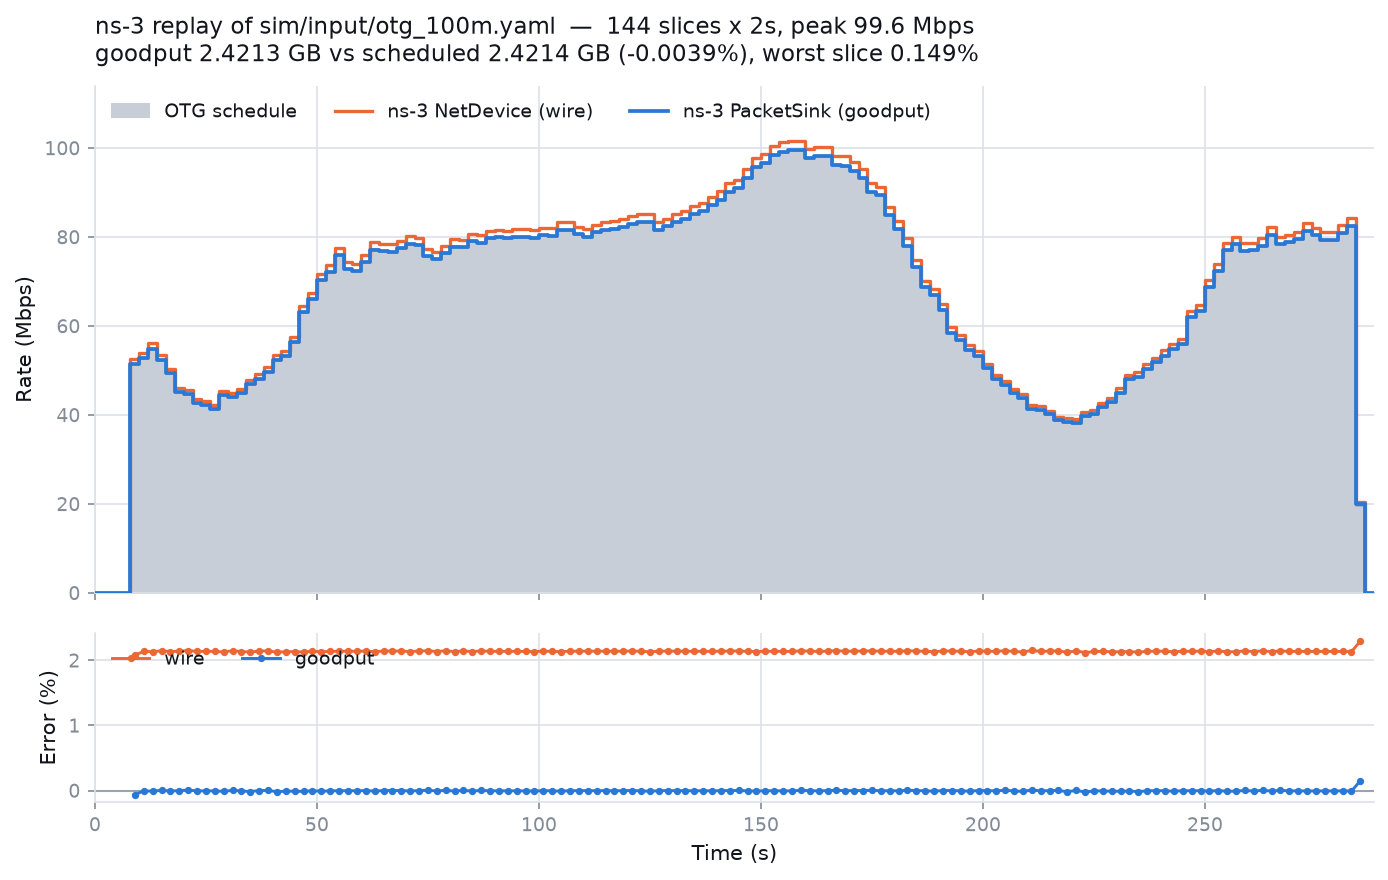
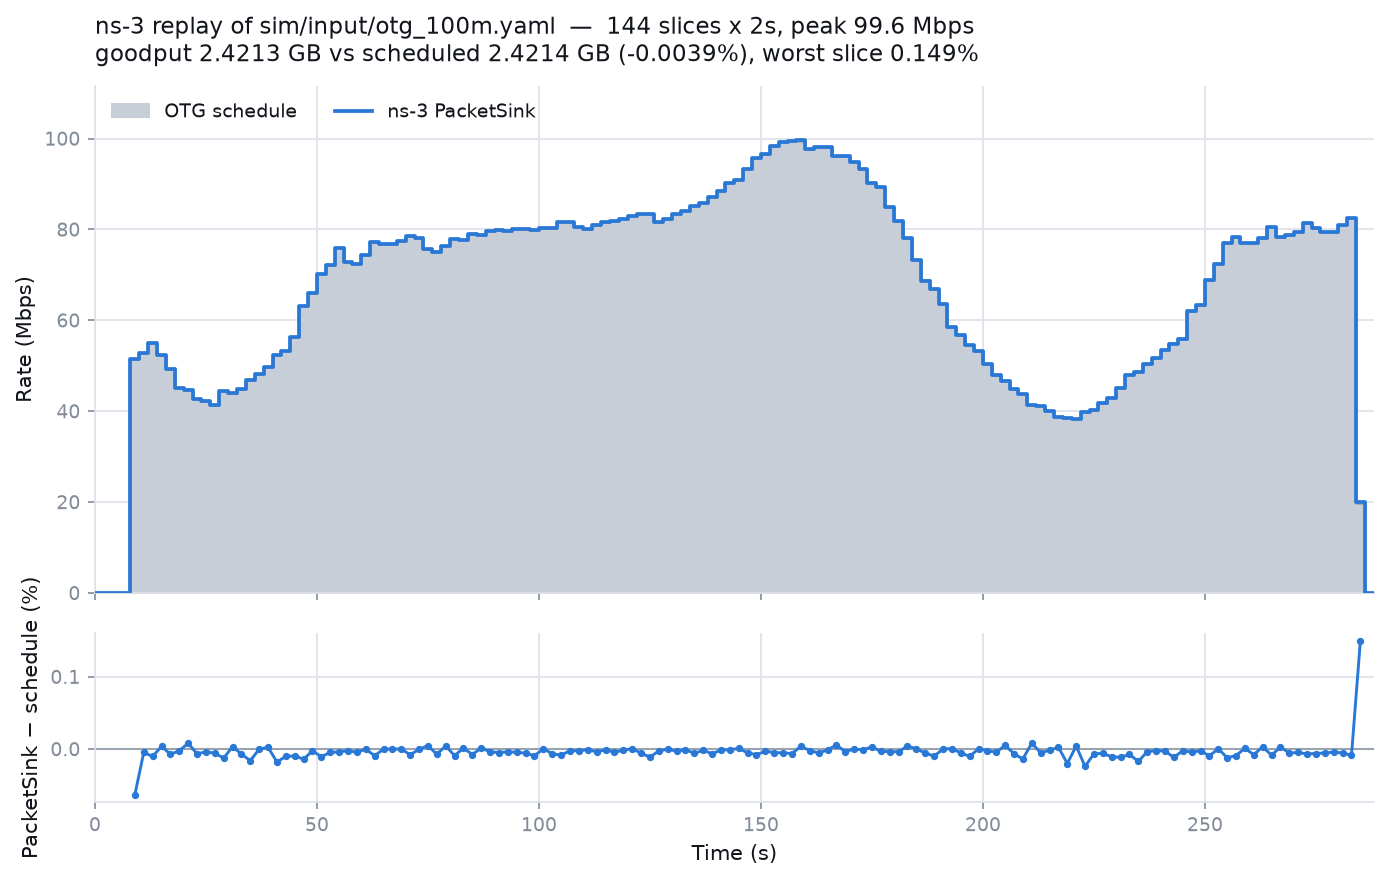
refactor(sim): plot the ns-3 runs as schedule vs PacketSink only
ns3_<tag>.png drew the NetDevice wire rate next to the PacketSink goodput, which
put a flat +2.14% of IP/UDP/PPP framing on the same axis as the replay error and
made the overhead read as a miss. The schedule and the PacketSink are the same
quantity, so with the wire series gone the residual panel is replay error and
nothing else - and it rescales from ±2% to ±0.02%, which is what the runs
actually do.

wire_bps is still measured and still reported: the totals in RESULTS.md, the
column in every ns3_<tag>.csv, and wire_err_pct in per_slice_<tag>.csv are
unchanged. Only the figure drops it.

Also embed ns3_48.png in RESULTS.md, which had figures for the input and for
TRex but none for ns-3.

diff --git a/sim/plot.py b/sim/plot.py
@@ -127,7 +127,11 @@ def steps(v):
 
 
 def plot_one(tag: str) -> Path:
-    exp, meas, wire, dur = load(tag)
+    # `wire` is measured and kept in the CSVs, but the figure plots the schedule
+    # against the PacketSink only: the two are the same quantity, while the wire
+    # rate is that plus framing, so drawing it here invites reading a constant
+    # +2.14% header overhead as replay error. See RESULTS.md for the wire numbers.
+    exp, meas, _wire, dur = load(tag)
     n = len(exp)
     live = exp > 1e5
     x = edges(n, dur)
@@ -142,15 +146,13 @@ def plot_one(tag: str) -> Path:
     ax.fill_between(x, 0, steps(exp) / scale, color=SCHED_FILL, step=None,
                     label="OTG schedule", zorder=1)
     ax.plot(x, steps(exp) / scale, color=SCHED_LINE, linewidth=1.2, zorder=2)
-    ax.plot(x, steps(wire) / scale, color=WIRE, linewidth=1.6,
-            label="ns-3 NetDevice (wire)", zorder=3)
     ax.plot(x, steps(meas) / scale, color=GOODPUT, linewidth=1.8,
-            label="ns-3 PacketSink (goodput)", zorder=4)
+            label="ns-3 PacketSink", zorder=4)
     style(ax)
     ax.set_ylabel("Rate (Mbps)", color=INK, fontsize=10)
     ax.set_xlim(0, n * dur)
-    ax.set_ylim(0, max(exp.max(), wire.max()) / scale * 1.12)
-    ax.legend(frameon=False, fontsize=9, labelcolor=INK, loc="upper left", ncol=3)
+    ax.set_ylim(0, exp.max() / scale * 1.12)
+    ax.legend(frameon=False, fontsize=9, labelcolor=INK, loc="upper left", ncol=2)
 
     vol_s = (exp * dur).sum() / 8 / 1e9
     vol_m = (meas * dur).sum() / 8 / 1e9
@@ -164,17 +166,12 @@ def plot_one(tag: str) -> Path:
     )
 
     e_all = np.where(live, (meas - exp) / np.where(live, exp, 1) * 100, np.nan)
-    ew_all = np.where(live, (wire - exp) / np.where(live, exp, 1) * 100, np.nan)
     centers = (np.arange(n) + 0.5) * dur
     ax2.axhline(0, color=SCHED_LINE, linewidth=1)
-    ax2.plot(centers, ew_all, color=WIRE, linewidth=1.4, marker="o", markersize=2.5,
-             label="wire")
-    ax2.plot(centers, e_all, color=GOODPUT, linewidth=1.4, marker="o", markersize=2.5,
-             label="goodput")
+    ax2.plot(centers, e_all, color=GOODPUT, linewidth=1.4, marker="o", markersize=2.5)
     style(ax2)
-    ax2.set_ylabel("Error (%)", color=INK, fontsize=10)
+    ax2.set_ylabel("PacketSink − schedule (%)", color=INK, fontsize=10)
     ax2.set_xlabel("Time (s)", color=INK, fontsize=10)
-    ax2.legend(frameon=False, fontsize=9, labelcolor=INK, loc="upper left", ncol=2)
 
     out = SIM / "results" / f"ns3_{tag}.png"
     fig.savefig(out, dpi=150, bbox_inches="tight", facecolor="white")

diff --git a/sim/README.md b/sim/README.md
@@ -63,7 +63,7 @@ sim/
     ├── per_slice_<tag>.csv         # written by analyze.py
     ├── input_waveform.png          # the extracted waveform on its own
     ├── extract_check.png           # that waveform laid over the graph it came from
-    ├── ns3_<tag>.png               # ns-3 vs schedule, with the per-slice residual
+    ├── ns3_<tag>.png               # schedule vs PacketSink, with the residual
     ├── trex_<tag>.png              # TRex vs schedule, same layout
     ├── source_vs_output_<tag>.png  # source waveform vs both outputs
     ├── source_vs_trex_<tag>.png    # source waveform vs the TRex output alone
@@ -161,6 +161,13 @@ rate on the wire, so the same config moves a measurably different number of
 application bytes in ns-3 than it does on a generator. Compare against
 `goodput_bps` when the question is "how much data did the application move" and
 against `wire_bps` when it is "how loaded was the link".
+
+`ns3_<tag>.png` plots the schedule against `goodput_bps` only. Those two are the
+same quantity, so the residual there is replay error and nothing else; drawing
+`wire_bps` on the same axis would put a constant +2.14% of framing next to it and
+invite reading header overhead as error. The wire numbers are in `RESULTS.md`,
+in every `ns3_<tag>.csv`, and in the `wire_err_pct` column of
+`per_slice_<tag>.csv`.
 
 `source_vs_output_<tag>.png` compares against the *input* rather than against the
 schedule, so it has to undo what `generate` did: the source is placed on the

diff --git a/sim/results/RESULTS.md b/sim/results/RESULTS.md
@@ -24,6 +24,8 @@ band.
 
 ## Per-slice rate and total volume
 
+![ns-3 vs schedule](ns3_48.png)
+
 `err` is per-slice measured vs scheduled rate, over the slices carrying a real
 rate (the 1 bps edge slices are excluded — see README).
 
@@ -43,6 +45,10 @@ rate (the 1 bps edge slices are excluded — see README).
 
 No drops in any run: the link is provisioned at twice the peak slice rate, so the
 device queue never builds.
+
+The figure plots the schedule against the PacketSink only. The wire column above
+is the same traffic plus IP + UDP + PPP framing — a constant offset, not a
+replay error — so it stays in the table and out of the plot.
 
 ## Input vs output
 
